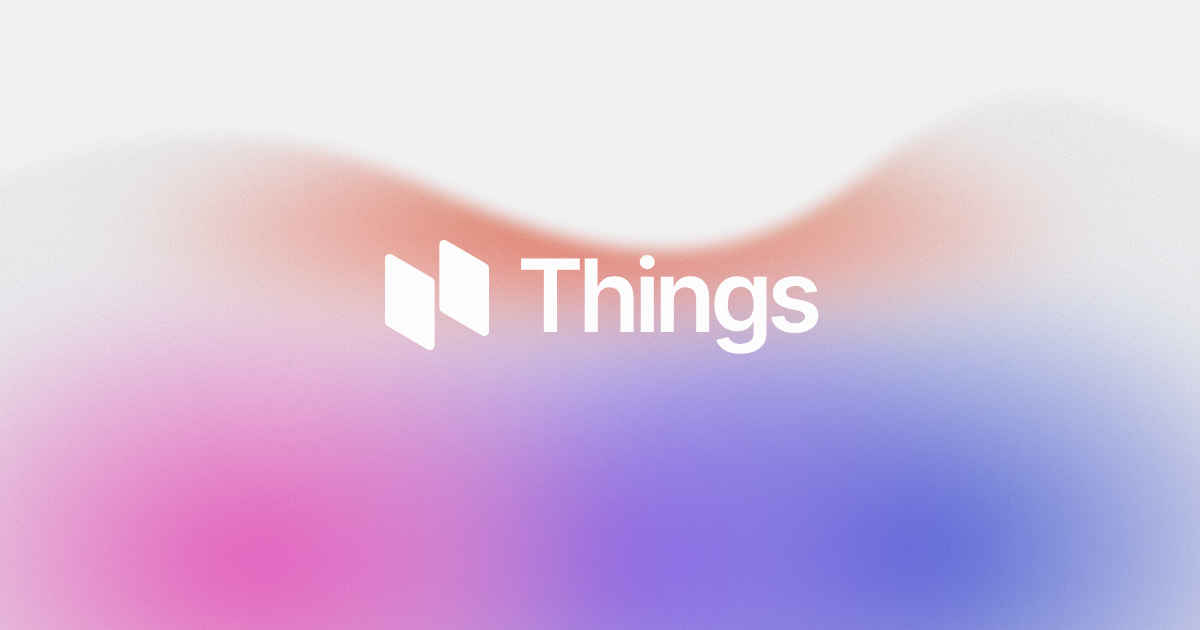
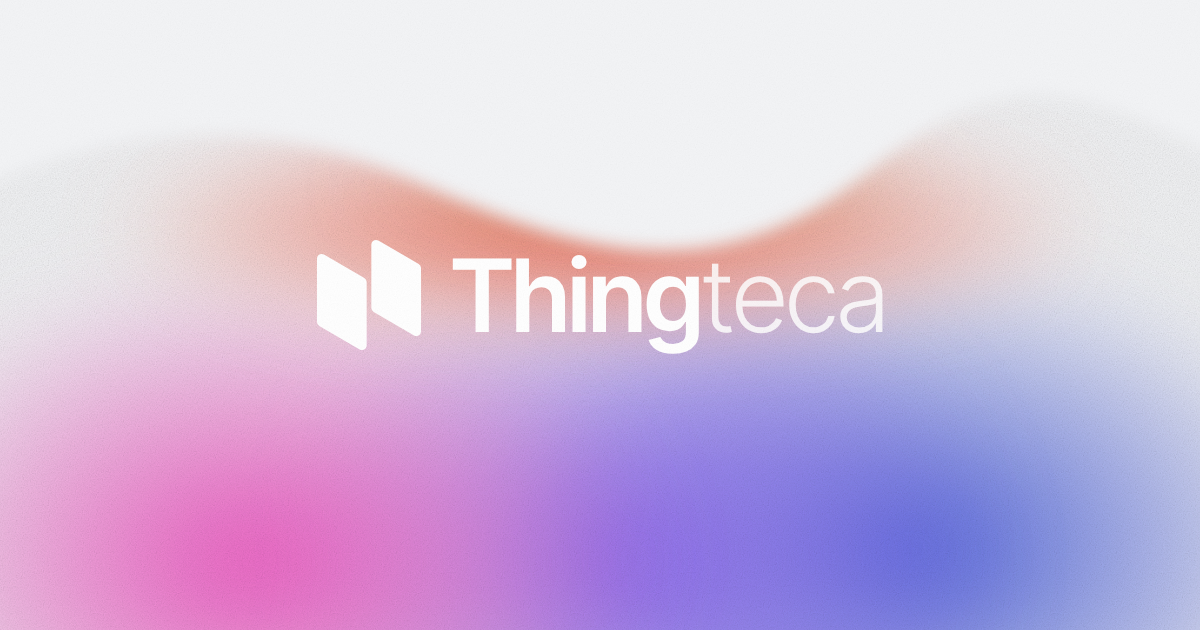
rename: Things is now Thingteca (en) / Cosateca (es)
Two-tone wordmark sets 'teca' apart (mark gradient in color, light
weight in mono/emails/aurora). Name in UI, titles, OG/Twitter images,
manifest, auth emails, e2e copy and docs. Brand name in src/lib/brand.ts
for the Spanish phase.

Claude-Session: https://claude.ai/code/session_017ipVMEcWWFEUYG4eCYCDG5

Changed region(s): [[0.2467, 0.3619, 0.74, 0.573]]

diff --git a/src/components/brand/logo.test.tsx b/src/components/brand/logo.test.tsx
@@ -3,25 +3,25 @@ import { describe, expect, it } from "vitest";
 import { Logo } from "./logo";
 
 describe("Logo", () => {
-  it("is named 'Things' with the wordmark", () => {
+  it("is named 'Thingteca' with the wordmark", () => {
     const { container } = render(
       <h1>
         <Logo />
       </h1>,
     );
-    expect(screen.getByRole("heading", { level: 1, name: "Things" })).toBeInTheDocument();
+    expect(screen.getByRole("heading", { level: 1, name: "Thingteca" })).toBeInTheDocument();
     expect(container.querySelector("svg")).toHaveAttribute("aria-hidden", "true");
   });
 
-  it("is named 'Things' when mark-only", () => {
+  it("is named 'Thingteca' when mark-only", () => {
     render(<Logo showWordmark={false} />);
-    expect(screen.getByRole("img", { name: "Things" })).toBeInTheDocument();
-    expect(screen.queryByText("Things")).not.toBeInTheDocument();
+    expect(screen.getByRole("img", { name: "Thingteca" })).toBeInTheDocument();
+    expect(screen.queryByText("Thingteca")).not.toBeInTheDocument();
   });
 
   it("scales the mark with size", () => {
     render(<Logo size={40} showWordmark={false} />);
-    expect(screen.getByRole("img", { name: "Things" })).toHaveAttribute("width", "40");
+    expect(screen.getByRole("img", { name: "Thingteca" })).toHaveAttribute("width", "40");
   });
 
   it("uses currentColor and no gradients in the mono variant", () => {
@@ -34,5 +34,12 @@ describe("Logo", () => {
     const { container } = render(<Logo showWordmark={false} />);
     expect(container.querySelectorAll("linearGradient")).toHaveLength(3);
     expect(container.querySelector("path")?.getAttribute("fill")).toMatch(/^url\(#/);
+  });
+
+  it("sets the suffix apart: gradient in color, light weight in mono", () => {
+    const { rerender } = render(<Logo />);
+    expect(screen.getByText("teca")).toHaveClass("bg-clip-text", "text-transparent");
+    rerender(<Logo variant="mono" />);
+    expect(screen.getByText("teca")).toHaveClass("font-light");
   });
 });

diff --git a/src/components/account/guest-banner.test.tsx b/src/components/account/guest-banner.test.tsx
@@ -34,7 +34,7 @@ describe("GuestBanner", () => {
     renderWithQuery(<GuestBanner />);
     const region = await screen.findByRole("region", { name: "Guest account" });
     expect(region).toHaveTextContent(
-      "You're using Things as a guest. Add an email to keep your things.",
+      "You're using Thingteca as a guest. Add an email to keep your things.",
     );
     expect(screen.getByRole("button", { name: "Keep my things" })).toBeInTheDocument();
     expect(screen.getByRole("button", { name: "Dismiss for now" })).toBeInTheDocument();
@@ -57,7 +57,7 @@ describe("GuestBanner", () => {
     const client = makeTestQueryClient();
     client.setQueryData(["counts"], makeCounts({ all: 9 }));
     renderWithQuery(<GuestBanner />, client);
-    expect(await screen.findByText(/You're using Things as a guest/)).toBeInTheDocument();
+    expect(await screen.findByText(/You're using Thingteca as a guest/)).toBeInTheDocument();
 
     act(() => client.setQueryData(["counts"], makeCounts({ all: 10 })));
     expect(
@@ -70,7 +70,7 @@ describe("GuestBanner", () => {
   it("keeps the default copy when the count query fails", async () => {
     countsQuery.result = { data: null, error: { message: "boom" } };
     renderWithQuery(<GuestBanner />);
-    expect(await screen.findByText(/You're using Things as a guest/)).toBeInTheDocument();
+    expect(await screen.findByText(/You're using Thingteca as a guest/)).toBeInTheDocument();
   });
 
   it("hides on dismiss and remembers it for the tab session", async () => {

diff --git a/src/components/brand/logo.tsx b/src/components/brand/logo.tsx
@@ -1,4 +1,5 @@
 import { useId } from "react";
+import { BRAND } from "@/lib/brand";
 import { cn } from "@/lib/utils";
 
 type MarkVariant = "color" | "duo" | "mono";
@@ -67,12 +68,15 @@ function Mark({
   );
 }
 
-/** Things logo: two-card mark + "Things" wordmark. Accessible name is always "Things". */
+/**
+ * Two-card mark + wordmark. The "teca" suffix takes the mark's gradient ("color", "duo") or a
+ * light weight ("mono"). Accessible name is always the full product name.
+ */
 export function Logo({ size = 24, showWordmark = true, variant = "color", className }: LogoProps) {
   if (!showWordmark) {
     return (
       <span className={cn("text-ink inline-flex shrink-0", className)}>
-        <Mark size={size} variant={variant} role="img" aria-label="Things" />
+        <Mark size={size} variant={variant} role="img" aria-label={BRAND.name} />
       </span>
     );
   }
@@ -87,7 +91,16 @@ export function Logo({ size = 24, showWordmark = true, variant = "color", classN
         className="font-heading tracking-heading leading-none font-semibold"
         style={{ fontSize: Math.round(size * 0.9) }}
       >
-        Things
+        {BRAND.stem}
+        <span
+          className={
+            variant === "mono"
+              ? "font-light opacity-75"
+              : "from-aurora-blue via-aurora-violet to-aurora-pink bg-linear-to-r bg-clip-text text-transparent"
+          }
+        >
+          {BRAND.suffix}
+        </span>
       </span>
     </span>
   );

diff --git a/e2e/auth.spec.ts b/e2e/auth.spec.ts
@@ -22,7 +22,9 @@ test.describe("email code sign-in", () => {
     const email = uniqueEmail();
 
     await page.goto("/login");
-    await expect(page.getByRole("heading", { level: 1, name: "Sign in to Things" })).toBeVisible();
+    await expect(
+      page.getByRole("heading", { level: 1, name: "Sign in to Thingteca" }),
+    ).toBeVisible();
     await signInWithEmail(page, email);
 
     await expect(page).toHaveURL(/\/app$/);
@@ -106,7 +108,9 @@ test.describe("guest and redirects", () => {
     // A guest may still open /login to sign in to a real account.
     await page.goto("/login");
     await expect(page).toHaveURL(/\/login$/);
-    await expect(page.getByRole("heading", { level: 1, name: "Sign in to Things" })).toBeVisible();
+    await expect(
+      page.getByRole("heading", { level: 1, name: "Sign in to Thingteca" }),
+    ).toBeVisible();
 
     // And "Try without an account" with an existing session just goes back to the app.
     await page.getByRole("button", { name: "Try without an account" }).click();
@@ -157,7 +161,7 @@ test.describe("guest and redirects", () => {
     );
     await expect(page).toHaveURL(/\/login\?error=callback&reason=account_exists$/);
     await expect(
-      page.getByRole("alert").filter({ hasText: "already has a Things account" }),
+      page.getByRole("alert").filter({ hasText: "already has a Thingteca account" }),
     ).toBeVisible();
   });
 

diff --git a/e2e/guest-upgrade.spec.ts b/e2e/guest-upgrade.spec.ts
@@ -11,9 +11,9 @@ import {
 } from "./helpers/session";
 import { getOtpCode, uniqueEmail } from "./mailpit";
 
-const BANNER_COPY = "You're using Things as a guest. Add an email to keep your things.";
+const BANNER_COPY = "You're using Thingteca as a guest. Add an email to keep your things.";
 const CONFLICT_COPY =
-  "That email already has a Things account. Sign in to it instead — items saved as a guest won't move over yet.";
+  "That email already has a Thingteca account. Sign in to it instead — items saved as a guest won't move over yet.";
 
 /** Opens the upgrade dialog from the banner and requests a code for `email`. */
 async function requestUpgradeCode(page: Page, email: string) {
@@ -131,7 +131,9 @@ test.describe("guest banner and upgrade", () => {
     // "Sign in instead" leaves the guest session and opens the login page.
     await dialog.getByRole("button", { name: "Sign in instead" }).click();
     await expect(page).toHaveURL(/\/login\?next=\/app$/);
-    await expect(page.getByRole("heading", { level: 1, name: "Sign in to Things" })).toBeVisible();
+    await expect(
+      page.getByRole("heading", { level: 1, name: "Sign in to Thingteca" }),
+    ).toBeVisible();
   });
 
   test("a guest with 10 items sees the stronger reminder", async ({ page, context }) => {

diff --git a/src/components/marketing/sections.tsx b/src/components/marketing/sections.tsx
@@ -86,7 +86,7 @@ const FEATURES: { icon: LucideIcon; title: string; body: string }[] = [
   },
 ];
 
-/** What Things does: automatic formats first, then the feature grid. */
+/** What Thingteca does: automatic formats first, then the feature grid. */
 export function Features() {
   return (
     <section id="features" aria-labelledby="features-title" className={sectionClass}>
@@ -99,7 +99,7 @@ export function Features() {
             Organized before you think about it
           </h2>
           <p className={leadClass}>
-            Things looks at every save and files it by format, so your board already makes sense.
+            Thingteca looks at every save and files it by format, so your board already makes sense.
             Collections, tags and smart views are there when you want more.
           </p>
         </header>
@@ -159,7 +159,7 @@ export function GuestMode() {
             Try it without an account
           </h2>
           <p className={leadClass}>
-            One click gives you a private board. Make an account only once Things has earned it.
+            One click gives you a private board. Make an account only once Thingteca has earned it.
           </p>
         </header>
         <dl className="divide-line border-line divide-y border-y">

diff --git a/src/components/marketing/footer.tsx b/src/components/marketing/footer.tsx
@@ -50,7 +50,7 @@ export function Footer() {
         <div className="flex max-w-xs flex-col gap-4">
           <Link
             href="/"
-            aria-label="Things, home"
+            aria-label="Thingteca, home"
             className={cn("rounded-control w-fit", focusRing)}
           >
             <Logo />
@@ -59,7 +59,7 @@ export function Footer() {
             A calm place to keep links, files and notes for later.
           </p>
           <div className="flex gap-2">
-            <IconButton asChild label="Things on GitHub">
+            <IconButton asChild label="Thingteca on GitHub">
               <a href={GITHUB_URL} target="_blank" rel="noreferrer noopener">
                 <GitHubMark />
               </a>
@@ -96,7 +96,7 @@ export function Footer() {
       </div>
       <div className="border-line border-t">
         <p className="text-meta text-ink-subtle mx-auto w-full max-w-6xl px-4 py-5 sm:px-6">
-          © {new Date().getFullYear()} Things - <a href="https://cafecito.app/maggioniduffy" target="_blank">
+          © {new Date().getFullYear()} Thingteca - <a href="https://cafecito.app/maggioniduffy" target="_blank">
          <b> Buy me a coffe! </b>
         </a>
         </p>

diff --git a/src/components/marketing/hero.tsx b/src/components/marketing/hero.tsx
@@ -15,7 +15,7 @@ const NAV_LINKS = [
 export function SiteHeader() {
   return (
     <header className="relative z-10 mx-auto flex h-16 w-full max-w-6xl items-center justify-between gap-4 px-4 sm:px-6">
-      <Link href="/" aria-label="Things, home" className={cn("rounded-control", focusRing)}>
+      <Link href="/" aria-label="Thingteca, home" className={cn("rounded-control", focusRing)}>
         <Logo />
       </Link>
       <div className="flex items-center gap-2 sm:gap-4">
@@ -67,7 +67,7 @@ export function Hero() {
         Save anything. Find it again.
       </h1>
       <p className="text-body text-ink-muted mt-5 max-w-[46ch] text-pretty sm:text-[length:var(--text-section)] sm:leading-[var(--text-section--line-height)]">
-        Drop in links, files and notes. Things sorts them by format and keeps them easy to find.
+        Drop in links, files and notes. Thingteca sorts them by format and keeps them easy to find.
       </p>
       <HeroActions />
     </section>

diff --git a/src/app/(marketing)/page.tsx b/src/app/(marketing)/page.tsx
@@ -3,14 +3,14 @@ import { Footer } from "@/components/marketing/footer";
 import { Hero, HeroBackdrop, HowItWorks, SiteHeader } from "@/components/marketing/hero";
 import { ClosingCta, Faq, Features, GuestMode } from "@/components/marketing/sections";
 
-const title = "Things — save anything for later";
+const title = "Thingteca — save anything for later";
 const description =
-  "Drop in links, files and notes. Things sorts them by format and keeps them easy to find again.";
+  "Drop in links, files and notes. Thingteca sorts them by format and keeps them easy to find again.";
 
 export const metadata: Metadata = {
   title,
   description,
-  openGraph: { title, description, type: "website", siteName: "Things" },
+  openGraph: { title, description, type: "website", siteName: "Thingteca" },
 };
 
 export default function LandingPage() {

diff --git a/e2e/landing.spec.ts b/e2e/landing.spec.ts
@@ -6,7 +6,7 @@ test.describe("landing page", () => {
     const consoleErrors = trackConsoleErrors(page);
     await page.goto("/");
 
-    await expect(page).toHaveTitle("Things — save anything for later");
+    await expect(page).toHaveTitle("Thingteca — save anything for later");
     await expect(page.getByRole("heading", { level: 1 })).toHaveText(
       "Save anything. Find it again.",
     );
@@ -19,7 +19,7 @@ test.describe("landing page", () => {
     await expect(signIn).toHaveAttribute("href", /^\/login/);
 
     await expect(page.getByRole("contentinfo")).toBeVisible();
-    await expect(page.getByRole("link", { name: "Things on GitHub" })).toHaveAttribute(
+    await expect(page.getByRole("link", { name: "Thingteca on GitHub" })).toHaveAttribute(
       "href",
       "https://github.com/maggioniduffy/things",
     );

diff --git a/src/lib/auth/errors.ts b/src/lib/auth/errors.ts
@@ -2,10 +2,10 @@ export const AUTH_MESSAGES = {
   invalidCode: "That code didn't work. Check it or send a new one.",
   rateLimit: "Too many attempts. Wait a minute, then try again.",
   captcha: "We couldn't verify that you're a person. Refresh the page and try again.",
-  network: "Can't reach Things. Check your connection and try again.",
+  network: "Can't reach Thingteca. Check your connection and try again.",
   invalidEmail: "That email address doesn't look right. Check it and try again.",
   accountExists:
-    "That email already has a Things account. Sign in to it instead — items saved as a guest won't move over yet.",
+    "That email already has a Thingteca account. Sign in to it instead — items saved as a guest won't move over yet.",
   unknown: "Something went wrong. Try again.",
 } as const;
 

diff --git a/supabase/templates/email_change.html b/supabase/templates/email_change.html
@@ -25,11 +25,11 @@
       <tr>
         <td style="padding: 32px">
           <p style="margin: 0 0 24px; font-size: 20px; font-weight: 600; letter-spacing: -0.02em">
-            Things
+            Thing<span style="font-weight: 300; color: #4a4a52">teca</span>
           </p>
           <p style="margin: 0 0 8px; font-size: 17px; font-weight: 500">Confirm your new email</p>
           <p style="margin: 0 0 20px; font-size: 15px; line-height: 1.5; color: #4a4a52">
-            Enter this code in Things to confirm the new email address for your account.
+            Enter this code in Thingteca to confirm the new email address for your account.
           </p>
           <p style="margin: 0 0 20px; font-size: 32px; font-weight: 600; letter-spacing: 0.18em">
             {{ .Token }}
